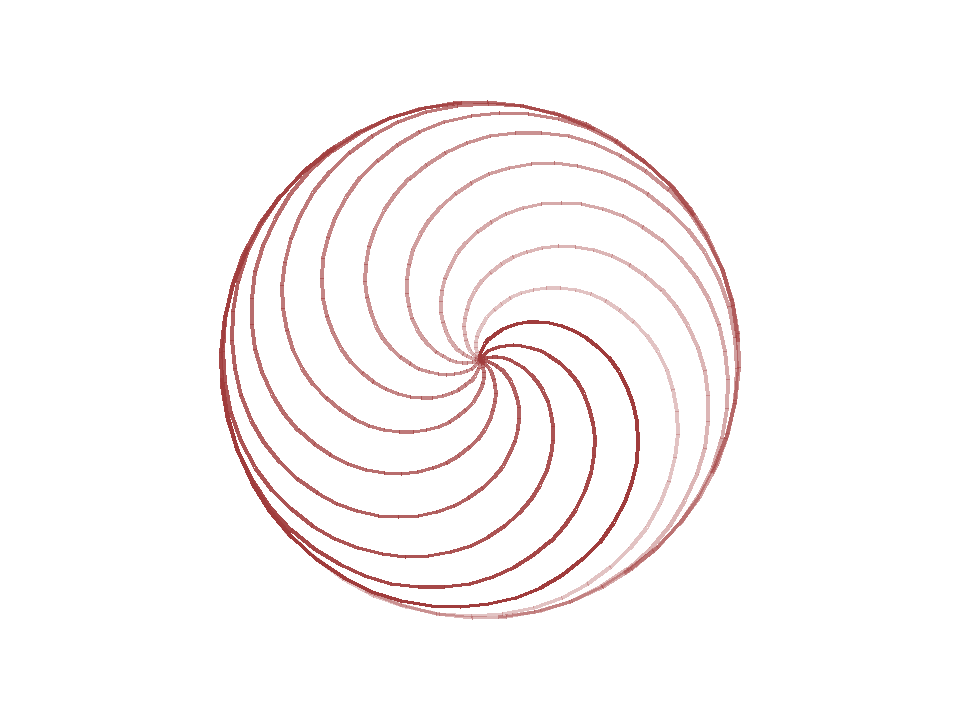
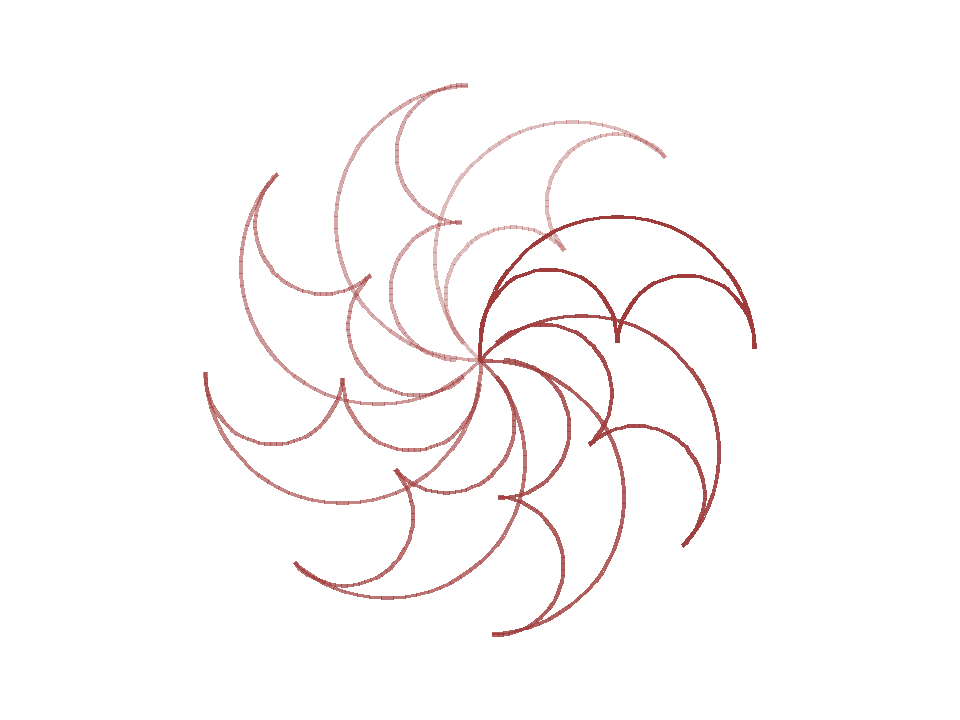
Poprawka figury: luk-kopula z dwoma garbami zamiast spirali
https://claude.ai/code/session_013iQo2rZFKm2GLofyn5pkMa

Changed region(s): [[0.1875, 0.0917, 0.8125, 0.8861]]

diff --git a/scratch/generuj_sb3.py b/scratch/generuj_sb3.py
@@ -1,11 +1,16 @@
 #!/usr/bin/env python3
-"""Generuje projekt Scratcha (.sb3) rysujacy wirujace spirale.
+"""Generuje projekt Scratcha (.sb3) rysujacy symetryczny wzor z luków.
+
+Jedna figura (jeden ciagly slad pisaka):
+  - duzy luk 180 stopni ("kopula"),
+  - zawrot o 180 stopni,
+  - dwa male luki 180 stopni spotykajace sie w ostrym dziobku na srodku.
 
 Program w Scratchu:
   - po kliknieciu zielonej flagi pyta "Ile figur mam narysowac?",
-  - rysuje pisakiem tyle spiralnych ramion, ile podal uzytkownik,
-  - ramiona sa rozlozone symetrycznie co (360 / liczba figur) stopni,
-  - kazde kolejne ramie jest bardziej przezroczyste (pen transparency).
+  - rysuje tyle figur, ile podal uzytkownik, obracajac kazda
+    o (360 / liczba figur) stopni wokol srodka sceny,
+  - kazda kolejna figura jest bardziej przezroczysta (pen transparency).
 """
 import hashlib
 import json
@@ -17,7 +22,6 @@ OUT = Path(__file__).parent / "wirujace_spirale.sb3"
 # --- identyfikatory zmiennych -------------------------------------------------
 VAR_FIGURY = ("figury", "var_figury")
 VAR_KIERUNEK = ("kierunek", "var_kierunek")
-VAR_KROK = ("krok", "var_krok")
 
 
 def var_input(var, shadow=(4, "10")):
@@ -41,6 +45,10 @@ def block(opcode, nxt=None, parent=None, inputs=None, fields=None,
     return b
 
 
+def num(value):
+    return [1, [4, str(value)]]
+
+
 BLOCKS = {
     # --- start ---
     "b01": block("event_whenflagclicked", nxt="b02", top=True),
@@ -48,11 +56,11 @@ BLOCKS = {
     "b03": block("looks_hide", nxt="b04", parent="b02"),
     "b04": block("pen_penUp", nxt="b05", parent="b03"),
     "b05": block("pen_setPenSizeTo", nxt="b06", parent="b04",
-                 inputs={"SIZE": [1, [4, "2"]]}),
+                 inputs={"SIZE": num(2)}),
     "b06": block("pen_setPenColorToColor", nxt="b07", parent="b05",
                  inputs={"COLOR": [1, [9, "#a03c3c"]]}),
     "b07": block("pen_setPenColorParamTo", nxt="b08", parent="b06",
-                 inputs={"COLOR_PARAM": [1, "m01"], "VALUE": [1, [4, "0"]]}),
+                 inputs={"COLOR_PARAM": [1, "m01"], "VALUE": num(0)}),
     "m01": block("pen_menu_colorParam", parent="b07", shadow=True,
                  fields={"colorParam": ["transparency", None]}),
     "b08": block("sensing_askandwait", nxt="b09", parent="b07",
@@ -68,42 +76,56 @@ BLOCKS = {
     # --- petla glowna: jedna iteracja = jedna figura ---
     "b12": block("control_repeat", parent="b11",
                  inputs={"TIMES": var_input(VAR_FIGURY, (6, "10")),
-                         "SUBSTACK": [2, "b14"]}),
-    "b14": block("motion_gotoxy", nxt="b15", parent="b12",
-                 inputs={"X": [1, [4, "0"]], "Y": [1, [4, "0"]]}),
-    "b15": block("motion_pointindirection", nxt="b16", parent="b14",
+                         "SUBSTACK": [2, "c01"]}),
+    "c01": block("motion_gotoxy", nxt="c02", parent="b12",
+                 inputs={"X": num(0), "Y": num(0)}),
+    "c02": block("motion_pointindirection", nxt="c03", parent="c01",
                  inputs={"DIRECTION": var_input(VAR_KIERUNEK, (8, "90"))}),
-    "b16": block("data_setvariableto", nxt="b17", parent="b15",
-                 inputs={"VALUE": [1, [10, "1"]]},
-                 fields={"VARIABLE": list(VAR_KROK)}),
-    "b17": block("pen_penDown", nxt="b18", parent="b16"),
+    "c03": block("pen_penDown", nxt="c04", parent="c02"),
 
-    # --- petla wewnetrzna: rysowanie jednej spirali ---
-    "b18": block("control_repeat", nxt="b22", parent="b17",
-                 inputs={"TIMES": [1, [6, "45"]], "SUBSTACK": [2, "b19"]}),
-    "b19": block("motion_movesteps", nxt="b20", parent="b18",
-                 inputs={"STEPS": var_input(VAR_KROK)}),
-    "b20": block("motion_turnright", nxt="b21", parent="b19",
-                 inputs={"DEGREES": [1, [4, "8"]]}),
-    "b21": block("data_changevariableby", parent="b20",
-                 inputs={"VALUE": [1, [4, "0.4"]]},
-                 fields={"VARIABLE": list(VAR_KROK)}),
+    # duzy luk 180 stopni (kopula)
+    "c04": block("control_repeat", nxt="c05", parent="c03",
+                 inputs={"TIMES": [1, [6, "36"]], "SUBSTACK": [2, "d01"]}),
+    "d01": block("motion_movesteps", nxt="d02", parent="c04",
+                 inputs={"STEPS": num(6)}),
+    "d02": block("motion_turnright", parent="d01",
+                 inputs={"DEGREES": num(5)}),
+
+    # zawrot i pierwszy maly luk (prawy garb, do dziobka na srodku)
+    "c05": block("motion_turnright", nxt="c06", parent="c04",
+                 inputs={"DEGREES": num(180)}),
+    "c06": block("control_repeat", nxt="c07", parent="c05",
+                 inputs={"TIMES": [1, [6, "36"]], "SUBSTACK": [2, "d03"]}),
+    "d03": block("motion_movesteps", nxt="d04", parent="c06",
+                 inputs={"STEPS": num(3)}),
+    "d04": block("motion_turnleft", parent="d03",
+                 inputs={"DEGREES": num(5)}),
+
+    # zawrot w dziobku i drugi maly luk (lewy garb)
+    "c07": block("motion_turnright", nxt="c08", parent="c06",
+                 inputs={"DEGREES": num(180)}),
+    "c08": block("control_repeat", nxt="c09", parent="c07",
+                 inputs={"TIMES": [1, [6, "36"]], "SUBSTACK": [2, "d05"]}),
+    "d05": block("motion_movesteps", nxt="d06", parent="c08",
+                 inputs={"STEPS": num(3)}),
+    "d06": block("motion_turnleft", parent="d05",
+                 inputs={"DEGREES": num(5)}),
 
     # --- po narysowaniu figury: obrot i wieksza przezroczystosc ---
-    "b22": block("pen_penUp", nxt="b23", parent="b18"),
-    "b23": block("data_changevariableby", nxt="b25", parent="b22",
-                 inputs={"VALUE": [3, "b24", [4, "10"]]},
+    "c09": block("pen_penUp", nxt="c10", parent="c08"),
+    "c10": block("data_changevariableby", nxt="c11", parent="c09",
+                 inputs={"VALUE": [3, "o01", [4, "10"]]},
                  fields={"VARIABLE": list(VAR_KIERUNEK)}),
-    "b24": block("operator_divide", parent="b23",
-                 inputs={"NUM1": [1, [4, "360"]],
+    "o01": block("operator_divide", parent="c10",
+                 inputs={"NUM1": num(360),
                          "NUM2": var_input(VAR_FIGURY, (4, ""))}),
-    "b25": block("pen_changePenColorParamBy", parent="b23",
+    "c11": block("pen_changePenColorParamBy", parent="c10",
                  inputs={"COLOR_PARAM": [1, "m02"],
-                         "VALUE": [3, "b26", [4, "10"]]}),
-    "m02": block("pen_menu_colorParam", parent="b25", shadow=True,
+                         "VALUE": [3, "o02", [4, "10"]]}),
+    "m02": block("pen_menu_colorParam", parent="c11", shadow=True,
                  fields={"colorParam": ["transparency", None]}),
-    "b26": block("operator_divide", parent="b25",
-                 inputs={"NUM1": [1, [4, "75"]],
+    "o02": block("operator_divide", parent="c11",
+                 inputs={"NUM1": num(75),
                          "NUM2": var_input(VAR_FIGURY, (4, ""))}),
 }
 
@@ -143,7 +165,6 @@ PROJECT = {
             "variables": {
                 VAR_FIGURY[1]: [VAR_FIGURY[0], 0],
                 VAR_KIERUNEK[1]: [VAR_KIERUNEK[0], 0],
-                VAR_KROK[1]: [VAR_KROK[0], 0],
             },
             "lists": {},
             "broadcasts": {},

diff --git a/scratch/podglad.py b/scratch/podglad.py
@@ -4,16 +4,35 @@ import math
 import sys
 from PIL import Image, ImageDraw
 
-n = int(sys.argv[1]) if len(sys.argv) > 1 else 12
+n = int(sys.argv[1]) if len(sys.argv) > 1 else 8
 SCALE = 2
 W, H = 480 * SCALE, 360 * SCALE
 
 img = Image.new("RGB", (W, H), "white")
 draw = ImageDraw.Draw(img, "RGBA")
 
+x = y = 0.0
+d = 0.0
+pen = False
+color = (160, 60, 60, 255)
 
-def to_px(x, y):
-    return W / 2 + x * SCALE, H / 2 - y * SCALE
+
+def to_px(px_, py_):
+    return W / 2 + px_ * SCALE, H / 2 - py_ * SCALE
+
+
+def move(steps):
+    global x, y
+    nx = x + math.sin(math.radians(d)) * steps
+    ny = y + math.cos(math.radians(d)) * steps
+    if pen:
+        draw.line([to_px(x, y), to_px(nx, ny)], fill=color, width=2 * SCALE)
+    x, y = nx, ny
+
+
+def turn(deg):
+    global d
+    d += deg
 
 
 kierunek = 0.0
@@ -21,16 +40,17 @@ transparency = 0.0
 for i in range(n):
     x, y = 0.0, 0.0
     d = kierunek
-    krok = 1.0
-    alpha = int(255 * (1 - transparency / 100))
-    for _ in range(45):  # ta sama petla co w Scratchu
-        nx = x + math.sin(math.radians(d)) * krok
-        ny = y + math.cos(math.radians(d)) * krok
-        draw.line([to_px(x, y), to_px(nx, ny)],
-                  fill=(160, 60, 60, alpha), width=2 * SCALE)
-        x, y = nx, ny
-        d += 8
-        krok += 0.4
+    color = (160, 60, 60, int(255 * (1 - transparency / 100)))
+    pen = True
+    for _ in range(36):           # duzy luk (kopula)
+        move(6); turn(5)
+    turn(180)                     # zawrot
+    for _ in range(36):           # prawy maly garb
+        move(3); turn(-5)
+    turn(180)                     # zawrot w dziobku
+    for _ in range(36):           # lewy maly garb
+        move(3); turn(-5)
+    pen = False
     kierunek += 360 / n
     transparency += 75 / n
 

diff --git a/scratch/README.md b/scratch/README.md
@@ -1,14 +1,18 @@
-# Wirujące spirale – projekt Scratch
+# Symetryczny wzór z łuków – projekt Scratch
 
 Rozwiązanie zadania: program po uruchomieniu pyta, ile figur narysować,
-rysuje je rozłożone symetrycznie wokół środka, a każda kolejna figura
-jest odrobinę bardziej przezroczysta od poprzedniej.
+rysuje je rozłożone symetrycznie wokół środka sceny, a każda kolejna
+figura jest odrobinę bardziej przezroczysta od poprzedniej.
+
+Jedna figura to jeden ciągły ślad pisaka: duży łuk 180° („kopuła"),
+zawrót o 180°, a pod spodem dwa mniejsze łuki 180°, które spotykają się
+w ostrym dzióbku na środku.
 
 ## Jak uruchomić
 
 1. Wejdź na https://scratch.mit.edu/projects/editor/
 2. Plik → Wczytaj ze swojego komputera → wybierz `wirujace_spirale.sb3`
-3. Kliknij zieloną flagę i podaj liczbę figur (np. 12).
+3. Kliknij zieloną flagę i podaj liczbę figur (np. 8).
 
 Plik `.sb3` jest generowany skryptem `generuj_sb3.py`, a `podglad.py`
 rysuje podgląd efektu (`podglad.png`) tym samym algorytmem.
@@ -29,12 +33,18 @@ ustaw [kierunek] na 0
 powtórz (figury) razy
     idź do x: 0 y: 0
     ustaw kierunek na (kierunek)
-    ustaw [krok] na 1
     przyłóż pisak
-    powtórz (45) razy
-        przesuń o (krok) kroków
-        obróć w prawo o (8) stopni
-        zmień [krok] o 0.4
+    powtórz (36) razy            // duży łuk (kopuła)
+        przesuń o (6) kroków
+        obróć w prawo o (5) stopni
+    obróć w prawo o (180) stopni // zawrót na końcu kopuły
+    powtórz (36) razy            // pierwszy mały łuk (garb)
+        przesuń o (3) kroków
+        obróć w lewo o (5) stopni
+    obróć w prawo o (180) stopni // zawrót w dzióbku na środku
+    powtórz (36) razy            // drugi mały łuk (garb)
+        przesuń o (3) kroków
+        obróć w lewo o (5) stopni
     podnieś pisak
     zmień [kierunek] o (360 / figury)
     zmień [przezroczystość] pisaka o (75 / figury)
@@ -44,12 +54,13 @@ powtórz (figury) razy
 
 - **Pytanie o liczbę figur** – blok „zapytaj … i czekaj", odpowiedź
   trafia do zmiennej `figury`.
-- **Symetria** – po każdej figurze duszek wraca na środek i obraca się
-  o `360 / figury` stopni, więc ramiona są rozłożone równomiernie
-  niezależnie od podanej liczby.
+- **Symetria** – każda figura zaczyna się na środku sceny, a przed
+  kolejną duszek obraca się o `360 / figury` stopni, więc figury są
+  rozłożone równomiernie niezależnie od podanej liczby.
 - **Rosnąca przezroczystość** – po każdej figurze przezroczystość
   pisaka rośnie o `75 / figury`, czyli od 0% dla pierwszej do ok. 75%
   dla ostatniej.
-- **Kształt figury** – spirala: w pętli każdy krok jest dłuższy
-  (`krok + 0.4`) przy stałym obrocie 8°, co daje rozkręcające się
-  ramię jak na rysunku z zadania.
+- **Kształt figury** – łuk powstaje z powtarzania „przesuń + obróć o 5°";
+  36 powtórzeń × 5° = 180°, czyli pół okręgu. Kopuła ma krok 6,
+  garby krok 3, więc są o połowę mniejsze, a zawroty o 180° dają
+  ostre dzióbki jak na rysunku.
